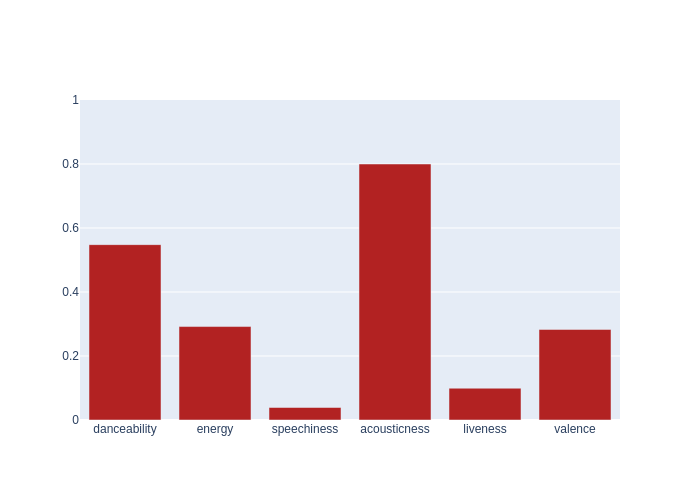
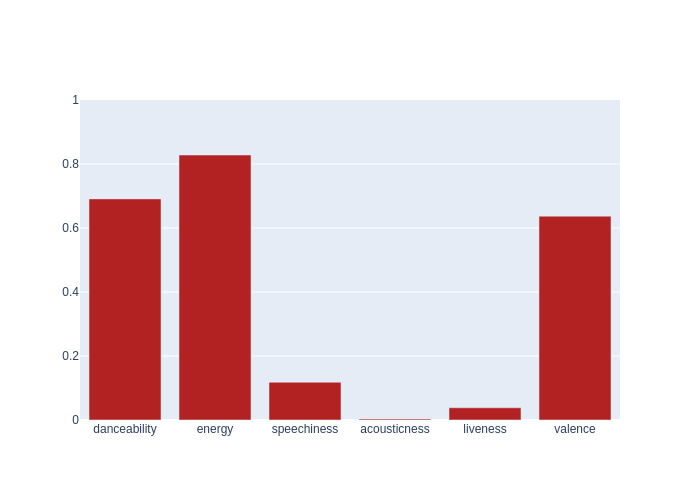
Automated README update

Changed region(s): [[0.36, 0.33, 0.75, 0.84], [0.12, 0.3, 0.36, 0.66], [0.75, 0.42, 0.87, 0.66]]

diff --git a/README.md b/README.md
@@ -4,7 +4,7 @@ Automated music metrics for fun, updated hourly.
 
 ## Spotify
 
-- currently listening to **Joe Lee Noire - New York Moonlight**
+- currently listening to **DEAD BLONDE - Первая дискотека**
 
 - **845** liked songs
 - **132** playlists
